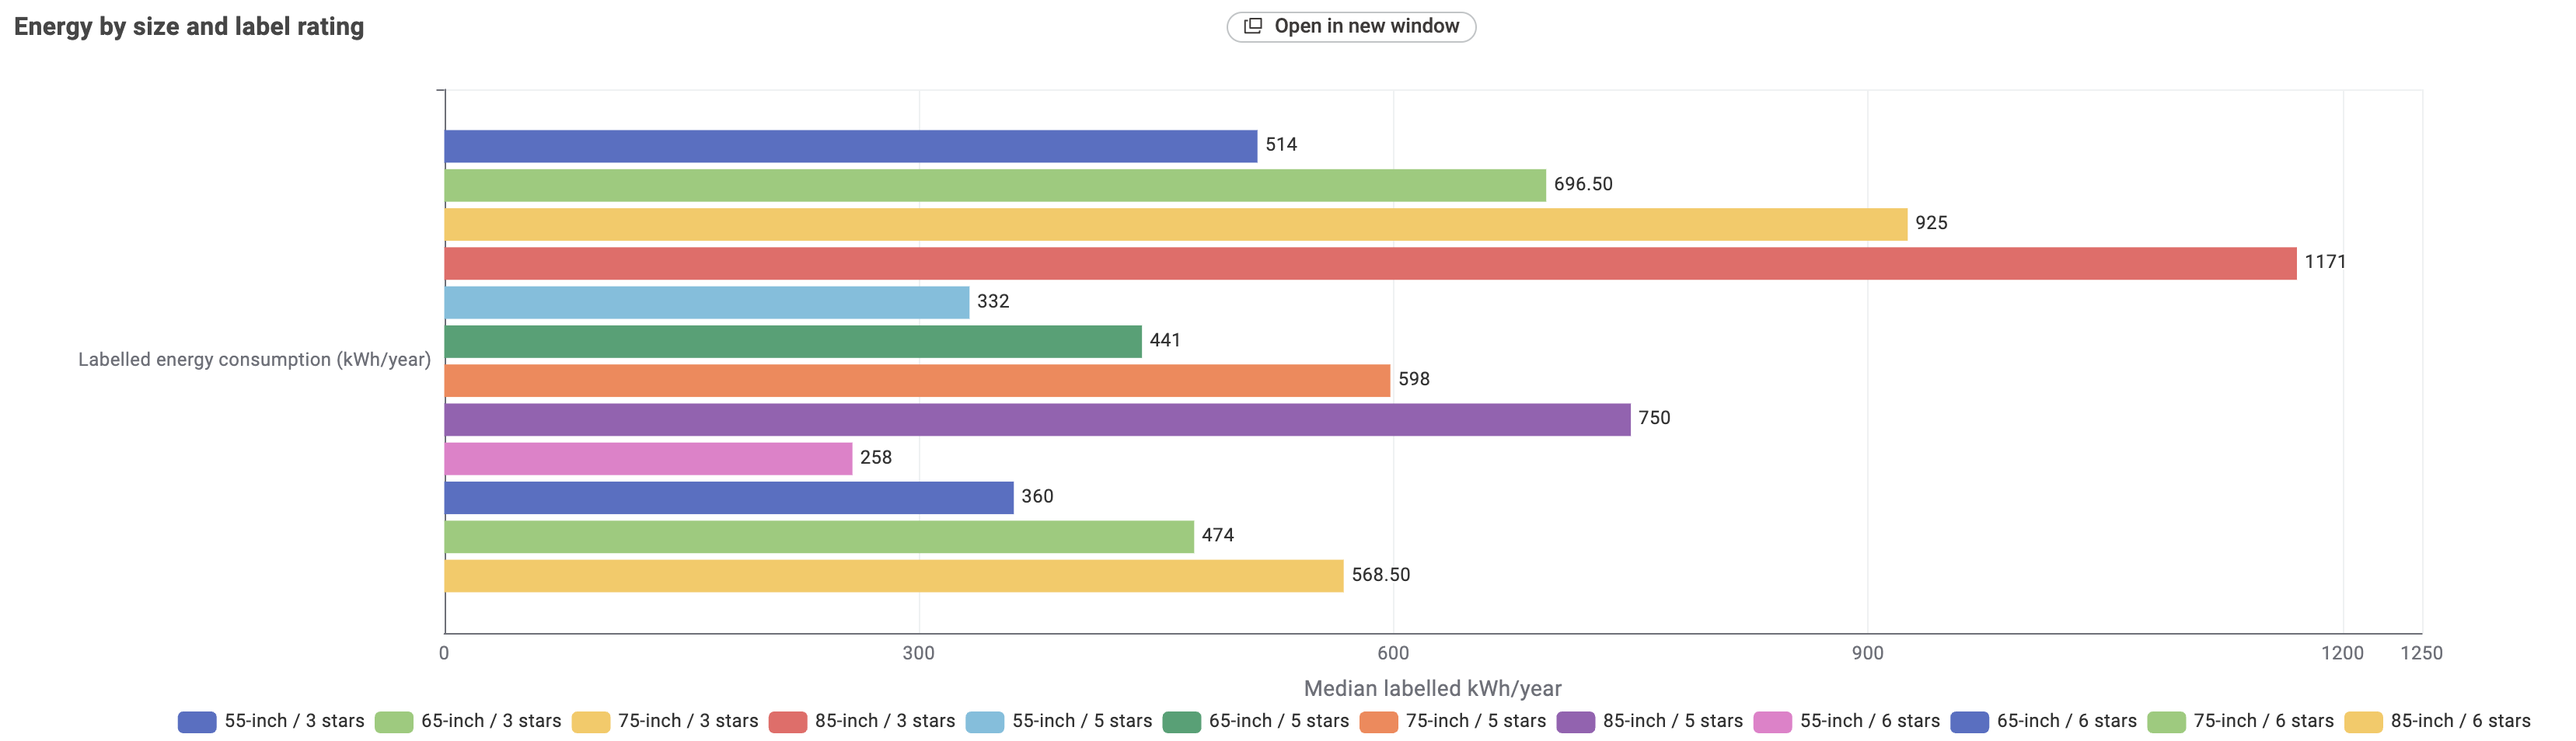
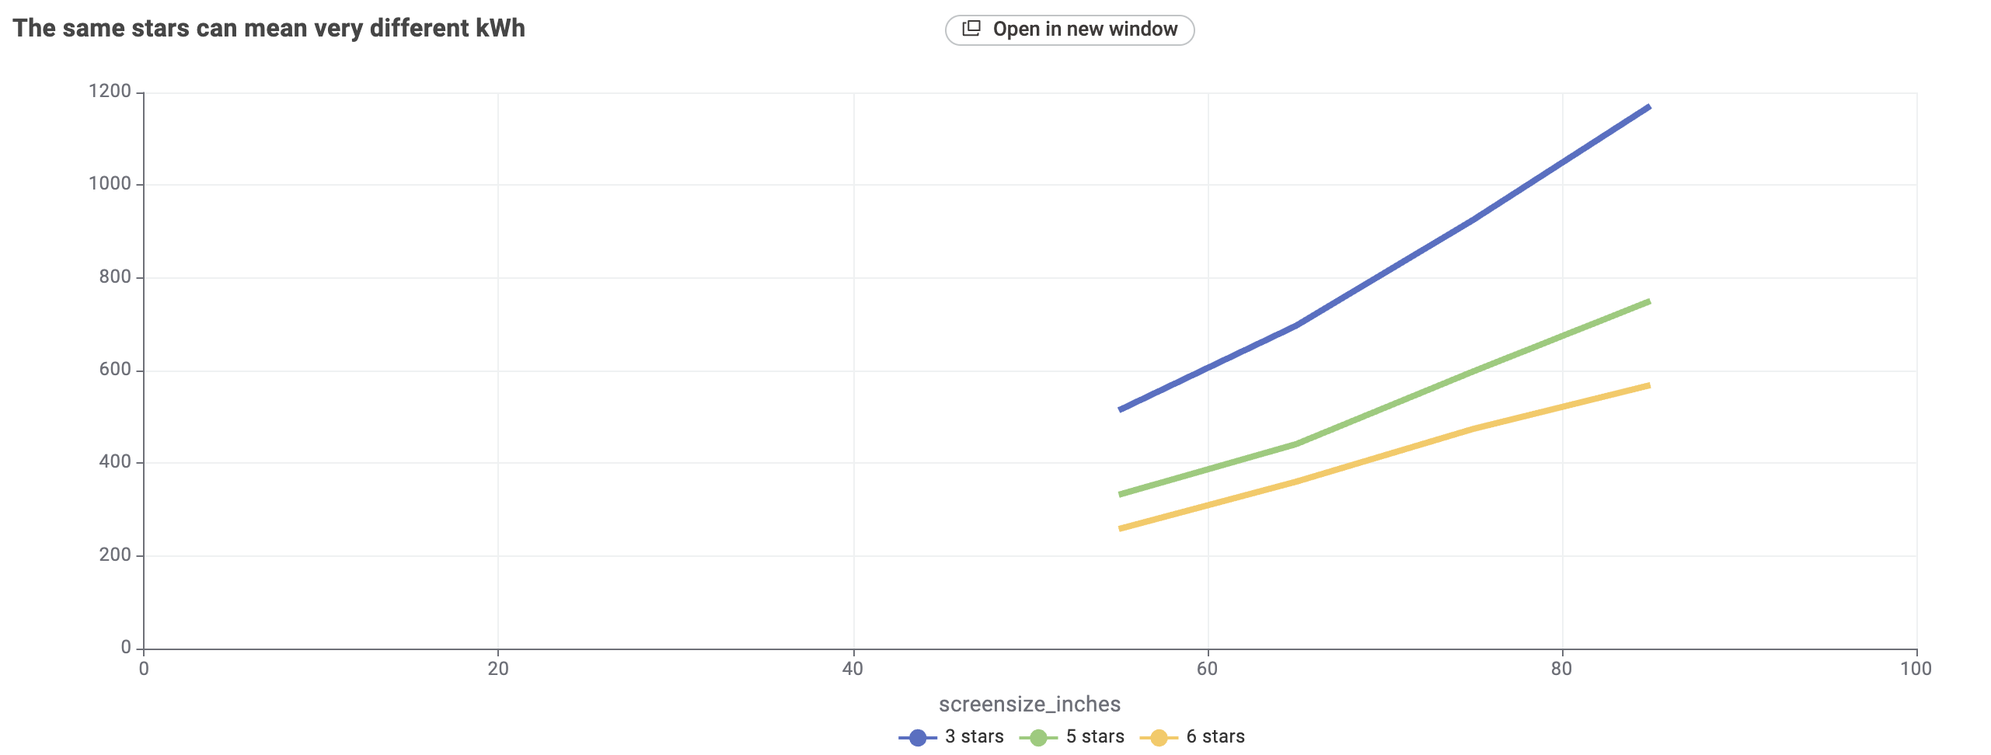
make change to the workflow and replace screenshots

diff --git a/televisions.html b/televisions.html
@@ -227,37 +227,54 @@
         <div>
           <p class="eyebrow">How the evidence was prepared</p>
           <h3>From raw registrations to a buying comparison</h3>
-          <p>The full 26-node KNIME workflow can be observed below.</p>
+          <p>The full 29-node KNIME workflow can be observed below.</p>
         </div>
       </div>
       <details class="story-details">
         <summary>See the workflow and processing checks</summary>
         <div class="details-body">
-          <p><b>Scope:</b> The workflow reads 5,340 raw rows and applies four row filters in order. First, 308 rows sold
-            only
-            in New Zealand (or Fiji and New Zealand) are removed, leaving 5,032 rows that include Australia. Then only
-            Available listings are kept (4,845), then only Approved records (4,844), then only in-date listings, using
-            3 October 2026 as the snapshot date (4,842).</p>
-          <p><b>Quality check and counting unit:</b> A rule check flags any row where Submit_ID, Star2, screen size or
-            annual
-            kWh is missing, Star2 is outside 0-10, or size or kWh is zero or negative. Missing values are never replaced
-            with
-            zero. All 4,842 rows pass, so the check removes nothing. The Duplicate Row Filter then keeps the first row
-            for each
-            Submit_ID, giving 2,702 registrations. Model names can represent variants. Registrations are not sales or
-            households.</p>
-          <p><b>Transformations:</b> An Expression node converts screen size to rounded inches: round(cm x 0.393701).
-            Two Math
-            Formula nodes copy annual kWh into a minimum column and a maximum column, so one GroupBy node can report the
-            median, minimum, maximum and count together. Rule Engine nodes then label the comparison groups, and Row
-            Filter
-            nodes keep only those groups.</p>
-          <p><b>The three comparisons:</b> Chart 1 compares 55″ / 3 stars (n=11, 499-532, median 514) with 75″ / 5 stars
-            (n=65, 550-612, median 598). Chart 3 compares 65″ / 3 stars with 65″ / 7 stars (n=6 each, medians 696.5 and
-            250.5).
-            Chart 2 uses four sizes (55″, 65″, 75″, 85″) and three ratings (3, 5, 6 stars): 12 cells, each with a median
-            and a
-            count, from n=5 to n=96. The two Chart 1 ranges do not overlap: 532 &lt; 550.</p>
+          <p>
+            <b>Scope:</b> The 28-node workflow reads 5,340 raw rows from the 3 October 2026 dataset. The market filter
+            removes
+            308 records sold only in New Zealand, in Fiji and New Zealand, or with a blank <code>SoldIn</code> value,
+            leaving
+            5,032. It then keeps Available listings (4,845), Approved records (4,844) and registrations still in date on
+            3 October 2026 (4,842).
+          </p>
+
+          <p>
+            <b>Quality check and counting unit:</b> A Rule Engine flags records where <code>Submit_ID</code>,
+            <code>Star2</code>, screen size or annual kWh is missing, <code>Star2</code> is outside 0-10, or size or kWh
+            is zero
+            or negative. Missing values are never replaced with zero, and all 4,842 records pass. A Duplicate Row Filter
+            keeps
+            the first record for each <code>Submit_ID</code>, giving 2,702 unique registrations. Registrations are not
+            sales,
+            households or market share.
+          </p>
+
+          <p>
+            <b>Processing:</b> An Expression node converts screen size to rounded inches:
+            <code>round(cm x 0.393701)</code>.
+            Two Math Formula nodes copy annual kWh for minimum and maximum aggregation, and Rule Engine and Row Filter
+            nodes
+            create the comparison groups. For Chart 2, GroupBy calculates the median kWh and count for each size and
+            rating,
+            Pivot reshapes the 12 cohorts into four sizes with 3-, 5- and 6-star columns, and Sorter, Column Renamer and
+            Line
+            Plot draw the three rating lines across sizes.
+          </p>
+
+          <p>
+            <b>The three comparisons:</b> Chart 1 compares 55″ / 3-star TVs (n=11, 499-532, median 514 kWh/year) with
+            75″ / 5-star TVs (n=65, 550-612, median 598). The ranges do not overlap, since 532 &lt; 550. Chart 2 covers
+            12
+            size-by-rating cohorts of 5 to 96 registrations. Chart 3 compares 65″ / 3-star and 65″ / 7-star TVs (n=6
+            each,
+            medians 696.5 and 250.5). Together they show that stars are useful at a similar size, while annual kWh is
+            the safer
+            measure across different sizes.
+          </p>
           <p><a class="text-link" href="assets/img/workflow.svg" target="_blank">Open the
               native workflow diagram ↗</a></p><img class="workflow-preview" src="assets/img/workflow.svg"
             alt="The student's simplified KNIME workflow with a left-to-right cleaning spine and three chart branches."

diff --git a/about.html b/about.html
@@ -114,7 +114,7 @@
             href="https://www.energyrating.gov.au/" target="_blank" rel="noopener noreferrer">Energy Rating ↗</a>.</p>
         <p>The <a class="source-link" href="televisions.html">Televisions page</a> is the Exercise 3 data story. It uses
           the supplied 3 October 2026 television registration
-          snapshot and a 26-node KNIME workflow with three executed Bar Chart views. It compares star ratings with
+          snapshot and a 29-node KNIME workflow with three executed Bar Chart views. It compares star ratings with
           labelled annual energy use across screen sizes.</p>
       </div>
     </section>
